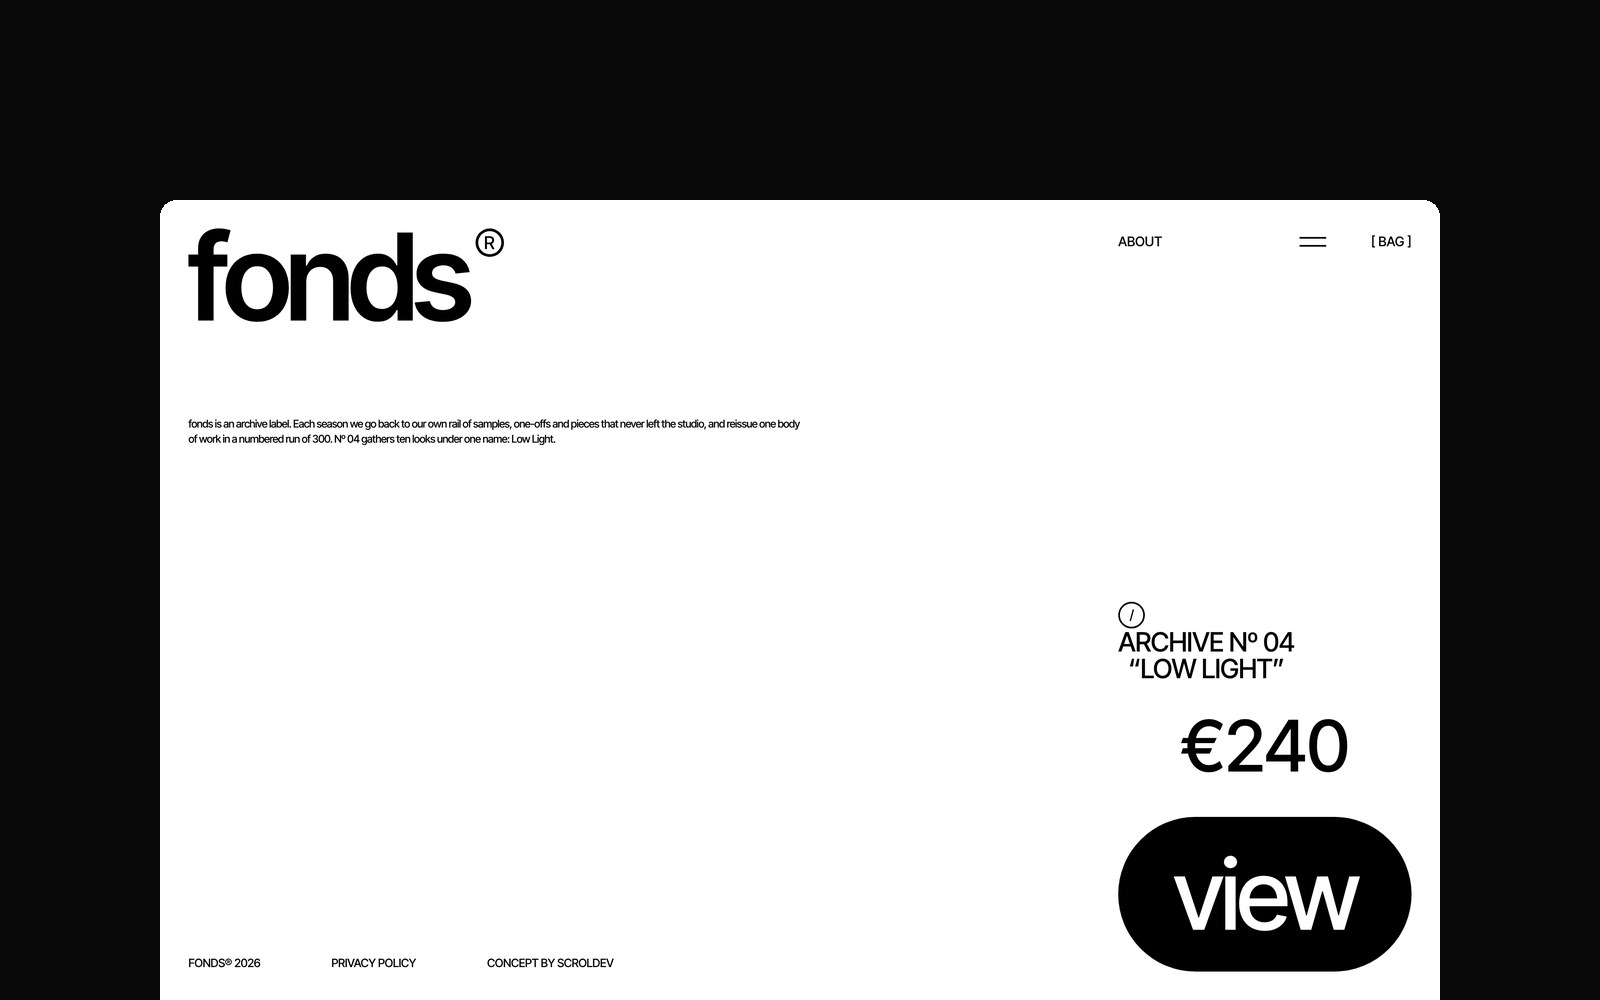
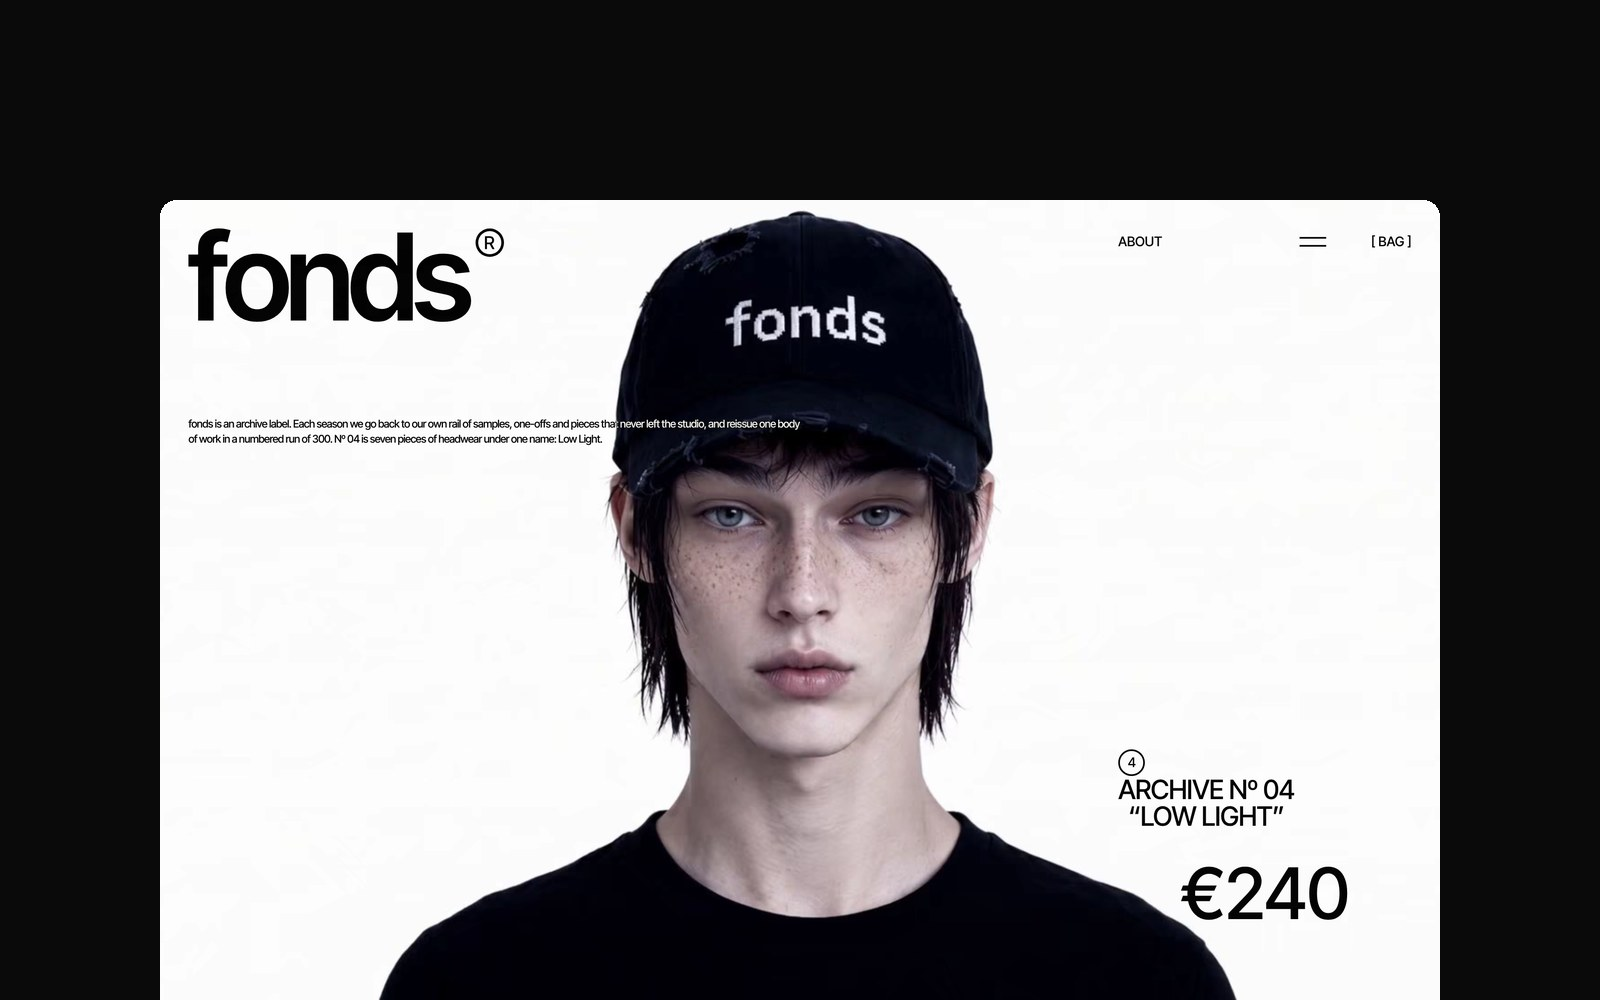
feat(fonds): own male model and fonds-branded media
- Hero: a male model in a fonds cap, generated as one still and animated
  twice with Kling motion control (turning each way), re-encoded with a
  keyframe on every frame. Replaces the original brief's clips, which had
  "PROMPT" on the cap.
- Gallery: seven pieces of headwear on the same model, all reading fonds,
  served as ~50 KB WebP from our Higgsfield storage. Copy now says seven
  pieces of headwear.
- Fix: the hero could stay blank. The fade-in checked both clips'
  readyState when the second finished loading, but readyState dips during
  every seek, so the check could fail and never run again. Each clip now
  counts as loaded the first time it loads.
- The clips crossfade when they swap at centre, since their first frames
  are near-identical rather than identical. Seek threshold set for 30 fps.
- New hub cover from the real hero frame.

Claude-Session: https://claude.ai/code/session_019maMQZrKYwvws8F2iCK3re

Changed region(s): [[0.2188, 0.217, 0.9062, 1.0], [0.6875, 0.62, 0.8125, 0.682], [0.125, 0.961, 0.1562, 0.992]]

diff --git a/sites/fonds/src/content/site.ts b/sites/fonds/src/content/site.ts
@@ -7,7 +7,7 @@ export const brand = {
 };
 
 export const caption =
-  "fonds is an archive label. Each season we go back to our own rail of samples, one-offs and pieces that never left the studio, and reissue one body of work in a numbered run of 300. Nº 04 gathers ten looks under one name: Low Light.";
+  "fonds is an archive label. Each season we go back to our own rail of samples, one-offs and pieces that never left the studio, and reissue one body of work in a numbered run of 300. Nº 04 is seven pieces of headwear under one name: Low Light.";
 
 export const nav = {
   about: "About",
@@ -24,30 +24,25 @@ export const collection = {
 // Shown in the small circle above the collection label; swapped at random while scrolling.
 export const symbols = ["4", "§", "&", "*", "/", "%"];
 
+// Generated for fonds and hosted on our Higgsfield storage.
+const media = "https://d2ol7oe51mr4n9.cloudfront.net/user_3DigAGHsL7XlpG98dcFNpat7g9G";
+
 // The hero clips. Both start on the same front-facing frame; "left" turns the head
 // towards the right of the screen, "right" towards the left. They are encoded with
 // every frame as a keyframe (ffmpeg -g 1) so scrubbing can seek to any frame
 // instantly. A clip with normal keyframe spacing will stutter when scrubbed.
 export const videos = {
-  left: "https://d2ol7oe51mr4n9.cloudfront.net/user_3DigAGHsL7XlpG98dcFNpat7g9G/f0ad1011-e527-4f19-aadf-023f04fbd753.mp4",
-  right: "https://d2ol7oe51mr4n9.cloudfront.net/user_3DigAGHsL7XlpG98dcFNpat7g9G/f32fe684-4cd7-432f-80d5-39a33c8d5b3f.mp4",
+  left: `${media}/a92b5da4-46e8-406e-bf53-d92141ba50a9.mp4`,
+  right: `${media}/a02f639b-bb43-4a9e-930c-dabf2d738808.mp4`,
 };
 
-const look = (file: string) =>
-  `https://images.higgs.ai/?default=1&output=webp&url=${encodeURIComponent(
-    `https://d8j0ntlcm91z4.cloudfront.net/user_38xzZboKViGWJOttwIXH07lWA1P/${file}`,
-  )}&w=1920&q=85`;
-
-// The ten looks of Nº 04, in gallery order.
+// The pieces of Nº 04, in gallery order: 1024px WebP, about 50 KB each.
 export const looks = [
-  "hf_20260629_104530_521b2f85-c0f3-4d0e-9704-b578315b4cb9.png",
-  "hf_20260629_103711_76ccdb8b-5043-4f47-9c54-4379713393ea.png",
-  "hf_20260629_103728_394f6a1b-85e2-4386-a4f6-408472a0a5b7.png",
-  "hf_20260629_103739_86743e0e-16a7-4bee-bf38-dd67985344dc.png",
-  "hf_20260629_103748_b2215dc8-a3a7-470d-b19a-5b87fa7d0c37.png",
-  "hf_20260629_103758_e919ce72-5c9d-4b87-9be6-d7647b34825c.png",
-  "hf_20260629_103808_013583d0-3386-4547-9832-37c7d8edb3ac.png",
-  "hf_20260629_103937_a0c49d0a-33eb-4ead-aea6-c1baf241acbc.png",
-  "hf_20260629_103956_d18ed8fd-7b6f-4b86-91f9-20010fe38670.png",
-  "hf_20260629_104034_ba5a9963-87ff-4008-a545-6bd686c088b5.png",
-].map((file, i) => ({ src: look(file), alt: `${collection.label}, look ${i + 1}` }));
+  "3a988b44-c675-44f8-a280-9a837bf94c33", // washed green cap
+  "4bd399a8-7bf4-488f-909f-e26029b24e30", // black cap, profile
+  "7fed7412-93f5-46ca-9c41-6eab50f261b3", // ribbed beanie, profile
+  "a7c93e5d-9362-4578-9a06-0c0231c582d7", // washed bucket hat
+  "4e7e1a25-dc66-40ff-bf53-fd18652b0618", // ribbed beanie
+  "93cb8b46-b0e3-4bc2-943f-b8ea4eb74705", // bleached denim cap
+  "d059b207-a84c-47f8-90cc-a679ec817b57", // full length
+].map((id, i) => ({ src: `${media}/${id}.webp`, alt: `${collection.label}, piece ${i + 1}` }));

diff --git a/sites/fonds/src/components/video-stage.tsx b/sites/fonds/src/components/video-stage.tsx
@@ -39,16 +39,23 @@ export function VideoStage({ ref }: { ref: Ref<VideoStageHandle> }) {
     [],
   );
 
-  // Fade in once both videos have a frame to show.
+  // Fade in once both videos have had a frame to show. Each one is counted the
+  // first time it loads: readyState dips again during every seek, so checking it
+  // later could miss the moment and leave the hero blank.
   useEffect(() => {
     const container = containerRef.current!;
     const pair = [leftRef.current!, rightRef.current!];
-    const check = () => {
-      if (pair.every((v) => v.readyState >= HTMLMediaElement.HAVE_CURRENT_DATA)) container.style.opacity = "1";
+    const loaded = new Set<HTMLVideoElement>();
+    const mark = (video: HTMLVideoElement) => {
+      loaded.add(video);
+      if (loaded.size === pair.length) container.style.opacity = "1";
     };
-    pair.forEach((v) => v.addEventListener("loadeddata", check));
-    check();
-    return () => pair.forEach((v) => v.removeEventListener("loadeddata", check));
+    const onLoaded = (e: Event) => mark(e.currentTarget as HTMLVideoElement);
+    for (const video of pair) {
+      video.addEventListener("loadeddata", onLoaded);
+      if (video.readyState >= HTMLMediaElement.HAVE_CURRENT_DATA) mark(video);
+    }
+    return () => pair.forEach((v) => v.removeEventListener("loadeddata", onLoaded));
   }, []);
 
   useEffect(() => {
@@ -75,9 +82,9 @@ export function VideoStage({ ref }: { ref: Ref<VideoStageHandle> }) {
     let raf = 0;
 
     // Only ask for a new frame once the browser has finished the previous seek,
-    // and only when it is at least half a frame (at 24 fps) away.
+    // and only when it is at least half a frame (at 30 fps) away.
     const seek = (video: HTMLVideoElement, time: number) => {
-      if (!video.seeking && Math.abs(video.currentTime - time) > 1 / 48) video.currentTime = time;
+      if (!video.seeking && Math.abs(video.currentTime - time) > 1 / 60) video.currentTime = time;
     };
 
     const tick = (now: number) => {
@@ -124,7 +131,9 @@ export function VideoStage({ ref }: { ref: Ref<VideoStageHandle> }) {
     };
   }, []);
 
-  const video = "absolute inset-0 size-full object-cover";
+  // The two clips' first frames are near-identical, not pixel-identical, so the
+  // swap at the centre crossfades rather than cuts.
+  const video = "absolute inset-0 size-full object-cover transition-opacity duration-200";
   return (
     <div
       ref={containerRef}

diff --git a/sites/fonds/index.html b/sites/fonds/index.html
@@ -4,14 +4,13 @@
     <meta charset="UTF-8" />
     <meta name="viewport" content="width=device-width, initial-scale=1" />
     <title>fonds® · Archive Nº 04 “Low Light”</title>
-    <meta name="description" content="fonds is an archive label. Archive Nº 04 gathers ten looks under one name: Low Light." />
+    <meta name="description" content="fonds is an archive label. Archive Nº 04 is seven pieces of headwear under one name: Low Light." />
     <meta property="og:title" content="fonds® · Archive Nº 04 “Low Light”" />
-    <meta property="og:description" content="Ten looks, one numbered run of 300. Archive Nº 04 from fonds." />
+    <meta property="og:description" content="Seven pieces of headwear, one numbered run of 300. Archive Nº 04 from fonds." />
     <meta property="og:type" content="website" />
     <meta name="theme-color" content="#000000" />
     <link rel="icon" type="image/svg+xml" href="/favicon.svg" />
     <link rel="preconnect" href="https://d2ol7oe51mr4n9.cloudfront.net" />
-    <link rel="preconnect" href="https://images.higgs.ai" />
   </head>
   <body>
     <div id="root"></div>

diff --git a/sites/fonds/README.md b/sites/fonds/README.md
@@ -6,8 +6,8 @@ The drop page for **fonds**, a fictional archive fashion label, launching its fo
 
 One page, two phases, all driven by scroll position:
 
-1. **Hero.** A full-screen film of the model behind the wordmark, nav and product block. Her head follows the cursor: two clips that start on the same front-facing frame turn it to either side, and the cursor scrubs whichever matches, easing towards it rather than jumping. A dead zone in the middle holds her facing forward. When the mouse rests, and on phones, she slowly looks from side to side on her own.
-2. **Gallery.** A black panel rises over the hero during the first screen of scroll, then the ten looks scroll past in a scattered grid, each one scaling up as it enters and down as it leaves. At the end the page washes to white and the "view" pill grows out of the corner.
+1. **Hero.** A full-screen film of the model behind the wordmark, nav and product block. His head follows the cursor: two clips that start on the same front-facing frame turn it to either side, and the cursor scrubs whichever matches, easing towards it rather than jumping. A dead zone in the middle holds him facing forward. When the mouse rests, and on phones, he slowly looks from side to side on his own.
+2. **Gallery.** A black panel rises over the hero during the first screen of scroll, then the seven pieces scroll past in a scattered grid, each one scaling up as it enters and down as it leaves. At the end the page washes to white and the "view" pill grows out of the corner.
 
 Every overlay uses `mix-blend-mode: exclusion`, so the same white type reads on the film, on black and on white.
 
@@ -29,7 +29,7 @@ npm run typecheck
 
 | File | Role |
 | --- | --- |
-| `src/content/site.ts` | All copy, the video URLs and the ten look images. Edit here, not in components. |
+| `src/content/site.ts` | All copy, the video URLs and the gallery images. Edit here, not in components. |
 | `src/App.tsx` | The scroll engine: one animation-frame loop that reads `scrollY`, moves the gallery, scales the cards and runs the outro. Writes only when something changed. |
 | `src/components/video-stage.tsx` | The head-turn: one eased "pose" value, driven by the cursor or the idle sway, scrubs the two clips. Seeks only when the previous seek has finished. |
 | `src/components/gallery-panel.tsx`, `src/lib/layout.ts` | The black panel and its scattered grid (2, 3 or 4 columns). |
@@ -42,8 +42,10 @@ npm run typecheck
 
 URLs live in `src/content/site.ts`.
 
-- **Hero clips** are hosted on our Higgsfield storage. They must be encoded with a keyframe on every frame, or scrubbing stutters: `ffmpeg -i in.mp4 -an -c:v libx264 -crf 21 -g 1 -pix_fmt yuv420p -movflags +faststart out.mp4`. Both clips must start on the same frame.
-- **Still to replace:** the current hero clips and the ten look images come from the original brief and show a "PROMPT" logo on every hat. They are placeholders until fonds-branded versions are generated.
+All media was generated for fonds with Higgsfield and is hosted on our Higgsfield storage.
+
+- **Hero clips:** one still of the model (GPT Image 2.5), animated twice with Kling 3.0 Motion Control, once turning each way. They must be encoded with a keyframe on every frame, or scrubbing stutters: `ffmpeg -i in.mp4 -an -c:v libx264 -crf 20 -g 1 -pix_fmt yuv420p -movflags +faststart out.mp4`. Both clips must start on the same frame.
+- **Gallery:** seven 1024px WebP images, edited from the same model so the face stays consistent.
 
 ## Deploy
 
